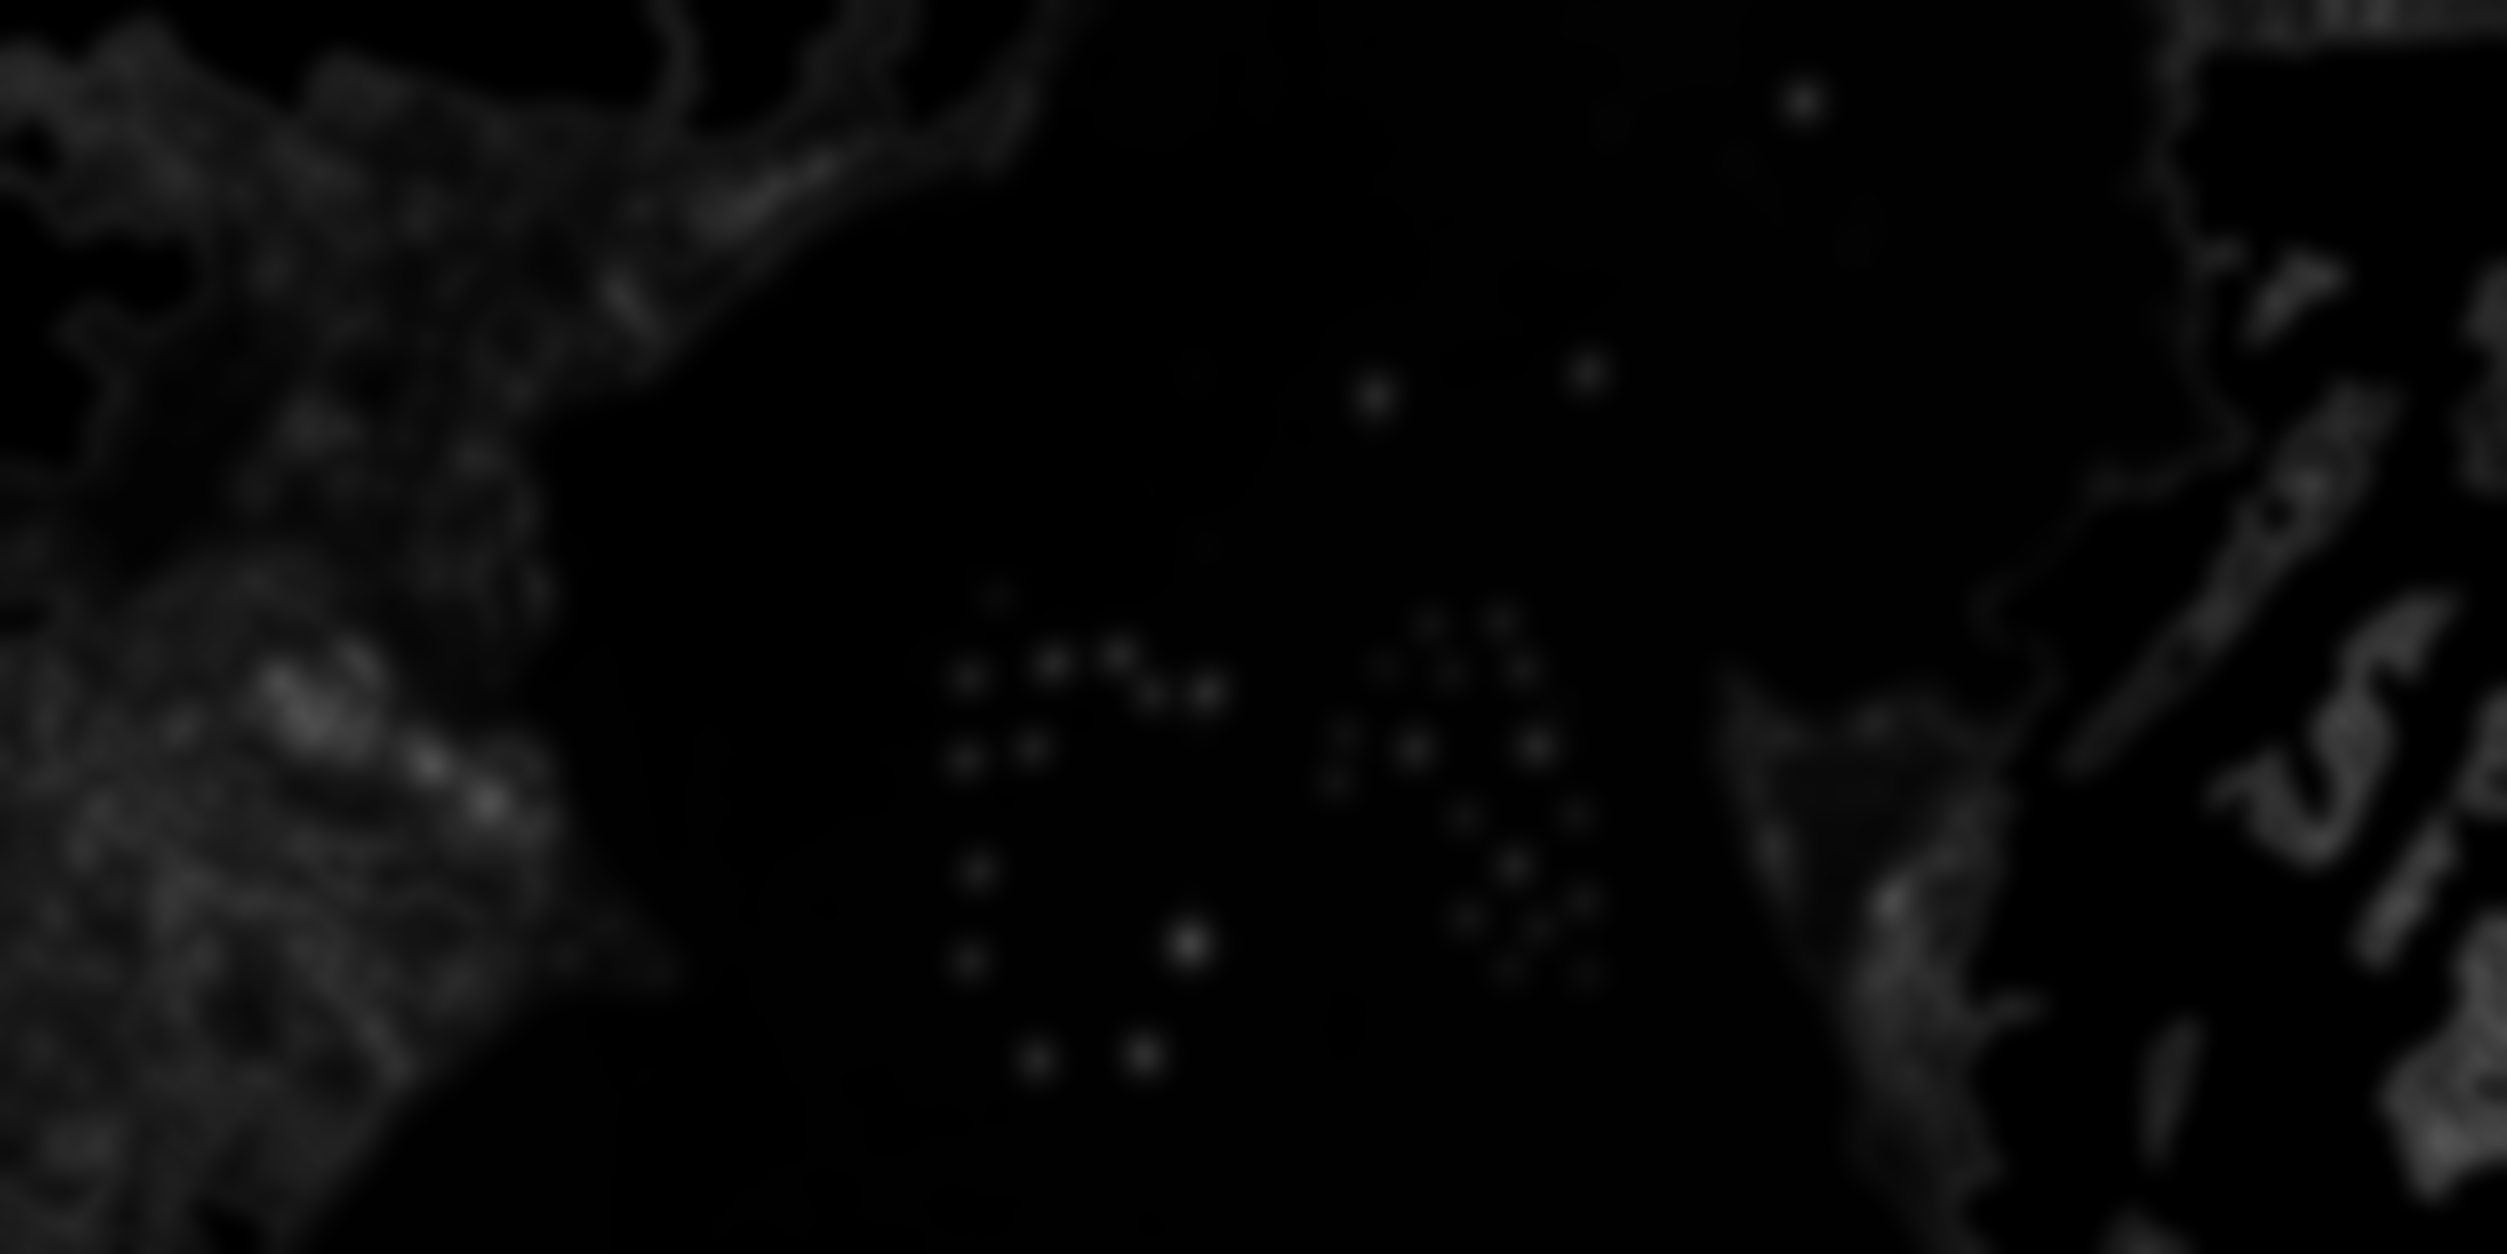
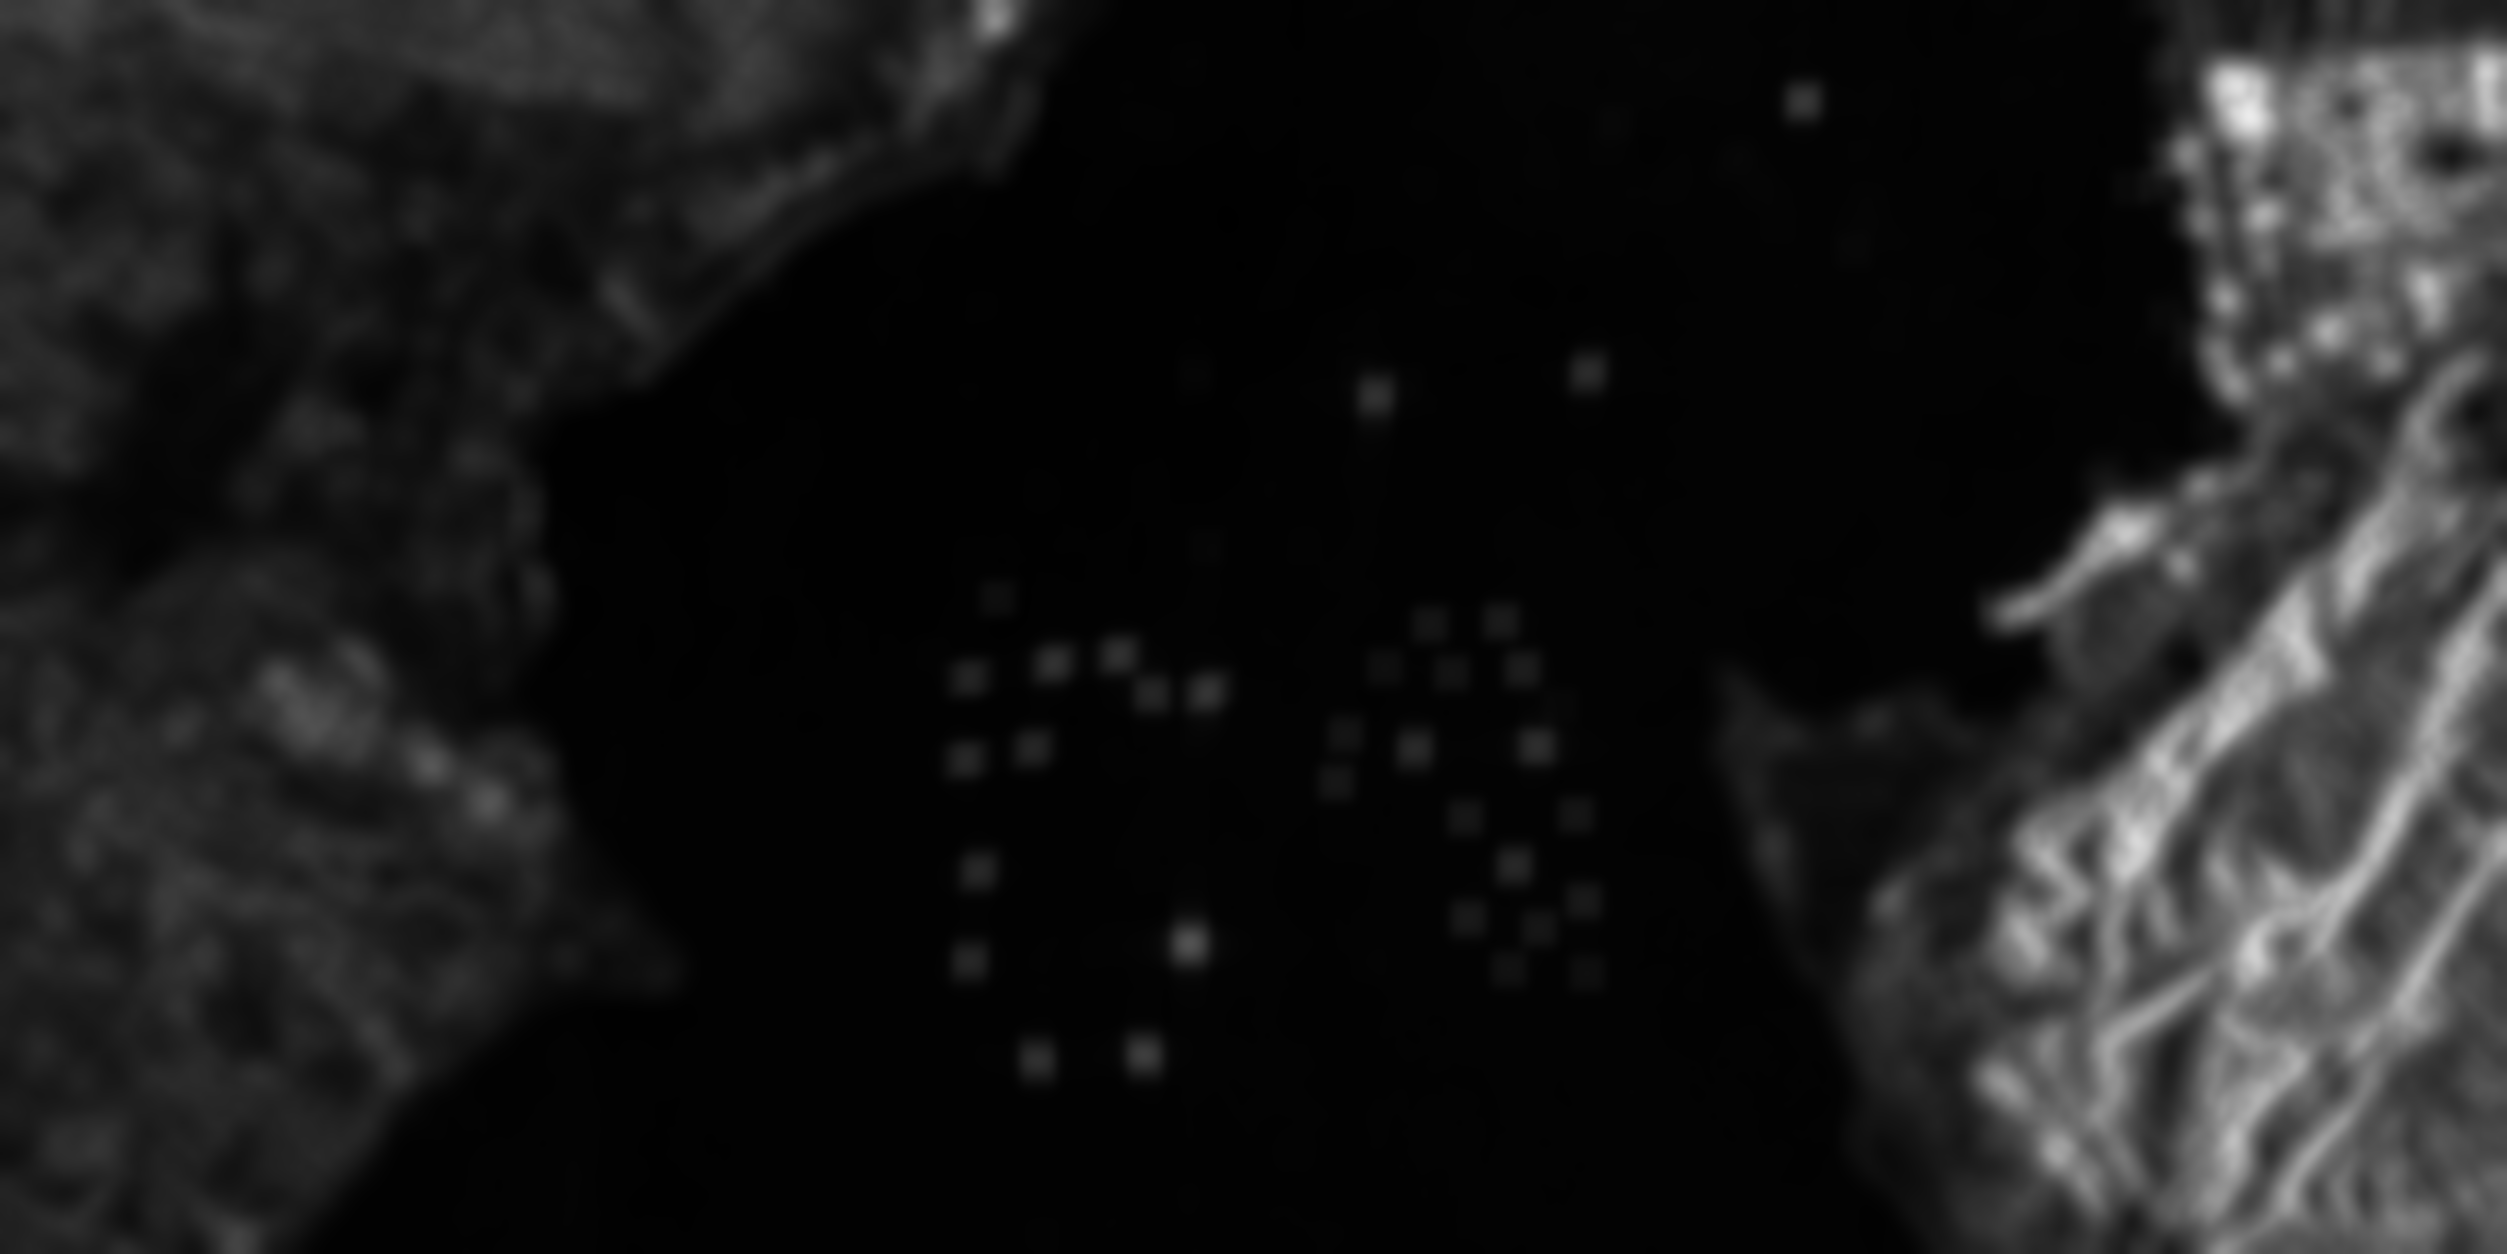
removed a bug with loading the prerpocessing images in the app

diff --git a/Jetson AGX Orin/Final_function.py b/Jetson AGX Orin/Final_function.py
@@ -158,7 +158,7 @@ def process_image(image, visualize=True,return_steps=False):
     current_image = filtered_image.copy()
     masked_image = original_image.copy()
     iteration = 0
-    max_iterations = 2
+    max_iterations = 3
 
     #create void mask
     mask_fin = np.zeros_like(original_image, dtype=np.uint8)
@@ -167,7 +167,7 @@ def process_image(image, visualize=True,return_steps=False):
         iteration += 1
         print(f"\nIteration {iteration}:")
         
-        if iteration == 3: bull=True
+        if iteration == 1: bull=True
         else: bull=False
 
         # Create land mask

diff --git a/preprocessing/Land_masking.py b/preprocessing/Land_masking.py
@@ -145,7 +145,7 @@ def process_image(image, visualize=True,return_steps=False):
     current_image = filtered_image.copy()
     masked_image = original_image.copy()
     iteration = 0
-    max_iterations = 2
+    max_iterations = 3
 
     #create void mask
     mask_fin = np.zeros_like(original_image, dtype=np.uint8)
@@ -154,7 +154,7 @@ def process_image(image, visualize=True,return_steps=False):
         iteration += 1
         print(f"\nIteration {iteration}:")
         
-        if iteration == 3: bull=True
+        if iteration == 1: bull=True
         else: bull=False
 
         # Create land mask
